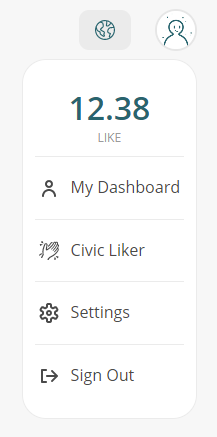
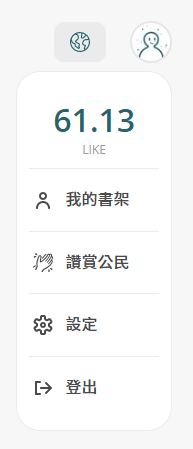
GitBook: [#4207] 下載 Liker Land

diff --git a/user-guide/liker-land/download.md b/user-guide/liker-land/download.md
@@ -14,28 +14,28 @@ description: 要去哪裏下載 Liker Land？
 [liker-id](../liker-id/)
 {% endcontent-ref %}
 
-## Liker Land 網頁版 - https://Liker.Land <a href="#liker-land-web" id="liker-land-web"></a>
+## Liker Land 網頁版 - [https://Liker.Land](download.md#xuan-xiang-yi-wo-de-shu-jia-httpsliker.landdashboard) <a href="#liker-land-web" id="liker-land-web"></a>
 
 登入後點擊右上角的菜單，會彈出其他選項。
 
 <figure><img src="../../.gitbook/assets/Liker Land menu.png" alt=""><figcaption></figcaption></figure>
 
-### 選項一：My Dashboard
+### 選項一：我的書架 - [https://liker.land/dashboard](https://liker.land/dashboard)
 
-連接用戶的 [NFT Portfolio](../../general-guides/writing-nft/nft-portfolio.md) 頁面。
+連接用戶的 [NFT 展示櫃](../../general-guides/writing-nft/nft-portfolio.md) 頁面。
 
-### 選項二：Civic Liker 讚賞公民
+### 選項二：讚賞公民 - [https://liker.land/civic](https://liker.land/civic)
 
-用戶可委託 LikeCoin 成為[讚賞公民](../civic-liker/)在 [Civic Liker](https://liker.land/civic) 查看委託狀態。
+用戶可委託 LikeCoin 成為[讚賞公民](../civic-liker/)並查看委託狀態。
 
 ### 選項三：Settings 設定
 
-[設定](https://like.co/in/settings)你的 Liker ID。可參看：
+設定你的 Liker ID。可參看：
 
 {% content-ref url="../liker-id/edit-avatar-displayname.md" %}
 [edit-avatar-displayname.md](../liker-id/edit-avatar-displayname.md)
 {% endcontent-ref %}
 
-### 選項四：Sign Out 登出
+### 選項四：登出
 
 在此登出 Liker Land。假若你想使用另一帳號登入，必須先於 Liker Land 網站登出才行，否則下次登入時仍會自動登入上次登入的帳戶。
